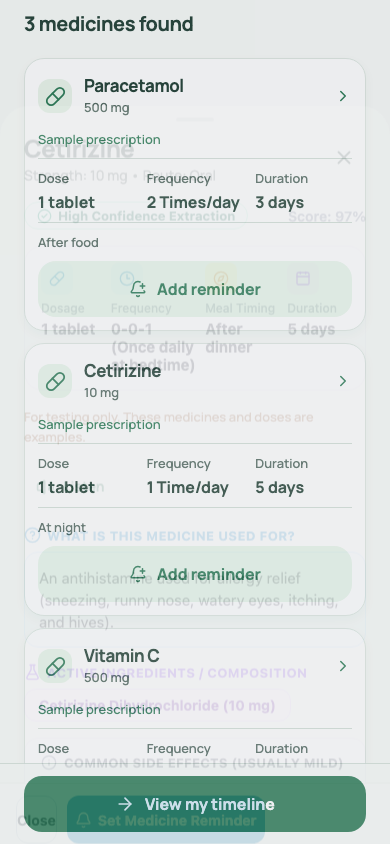
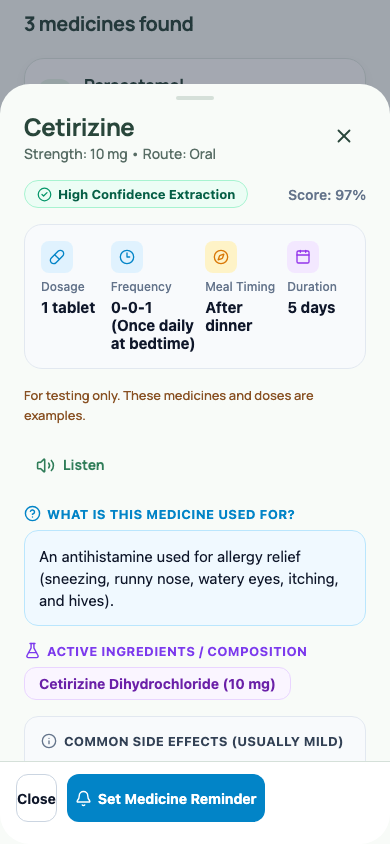
fix: readme app screnshot and added start.sh

diff --git a/mobile/tests/browser/capture_screenshots.spec.ts b/mobile/tests/browser/capture_screenshots.spec.ts
@@ -86,11 +86,13 @@ test("generate README screenshots", async ({ page }) => {
     .getByRole("button", { name: "Medicine details: Cetirizine", exact: true })
     .click();
   await expect(page.getByText("High Confidence Extraction")).toBeVisible();
+  await page.waitForTimeout(500); // Allow drawer slide-in animation to completely settle
   await page.screenshot({ path: path.join(screenshotsDir, "03-clinical-details.png") });
 
   // 4. Add/Edit Reminder Sheet
   await page.getByRole("button", { name: "Set Medicine Reminder", exact: true }).click();
   await expect(page.getByRole("heading", { name: "Add reminder" })).toBeVisible();
+  await page.waitForTimeout(600); // Allow sheet slide-in transition to completely finish without motion blur
   await page.screenshot({ path: path.join(screenshotsDir, "04-reminder-schedule.png") });
 
   // 5. Save Reminder & Today Timeline

diff --git a/README.md b/README.md
@@ -50,26 +50,18 @@ Handwritten prescriptions remain a dangerous, multi-billion-dollar bottleneck in
 
 ---
 
-## ⚡ Core Features
+## ✨ Core Features
 
-* **🔬 Multi-Modal AI Prescription Parsing**: Powered by Google Gemini (`gemini-3-flash-preview` / `gemini-3.5-flash`) with constrained schema decoding to transcribe drug names, strengths, dosages, and instructions without hallucination.
-* **📑 Interactive Clinical Intelligence Drawer**:
-  * **Extraction Confidence**: Visual confidence score badge (e.g. `High Confidence Extraction · 97%`).
-  * **4-Grid Metrics**: Quick view of **Dosage**, **Frequency** (`3 Times/day`), **Meal Timing** (`After meals`), and **Duration** (`7 days (generally)`).
-  * **What Is This Used For?**: Plain-language clinical indications written for patients.
-  * **Active Ingredients & Composition**: Pharmacological salt breakdown with exact strengths.
-  * **Mild vs. Emergency Effects**: Differentiates mild reactions (drowsiness, dry mouth) from critical red flags.
-  * **Generic Substitutes**: Matches active salts to affordable bioequivalent generics (e.g., PMBJP Jan Aushadhi).
-* **⏰ Medication Scheduling & Safety**:
-  * **Frequency-Locked Slots**: Prevents arbitrary dose multiplication (e.g., 3 Times/day provides exactly 3 slots).
-  * **Anchored Safety Windows**: Constrains reminder adjustments within 2 hours of physician instructions.
-  * **Timeline Actions**: Interactive **Mark Taken**, **Snooze (10m)**, and **Undo** buttons.
-* **🏥 GPS Hospital & Emergency Finder**:
-  * Automatically detects current city/coordinates and queries Google Places.
-  * Filters by **Government / Public Hospital**, **Clinic**, or **24/7 Emergency Care** with one-tap Google Maps directions and direct calls.
-* **🔒 Offline First & Private**:
-  * Works 100% offline using local SQLite / device storage for ongoing daily schedules.
-  * Optional encrypted Supabase cloud synchronization across mobile devices.
+| Feature | What It Does |
+|:---|:---|
+| 🔬 **AI Prescription OCR** | Transcribes handwritten cursive into structured medicine names, strengths, and dosages using Google Gemini Vision. |
+| 💊 **Standardized Frequencies** | Converts shorthand (`TDS`, `BD`, `1-0-1`, `HS`) into clean **`3 Times/day`**, **`2 Times/day`**, or **`At bedtime`**. |
+| 📑 **Clinical Intelligence** | Bottom-sheet drawer explaining **Uses**, **Active Composition**, **Mild vs. Emergency Effects**, and **Precautions**. |
+| 🏷 **Generic Alternatives** | Recommends bioequivalent low-cost generics (e.g. PMBJP Jan Aushadhi) matched by active chemical salts. |
+| ⏰ **Locked Safety Reminders** | Daily reminder slots locked to prescription frequency with anchored 2-hour safety adjustment limits. |
+| 📅 **Adherence Timeline** | Daily timeline to track scheduled doses with one-tap **Mark Taken**, **Snooze (10m)**, and **Undo**. |
+| 🏥 **Nearby Emergency Care** | Live GPS finder for verified **Government / Public hospitals**, 24/7 emergency rooms, and pharmacies. |
+| 🔒 **100% Offline First** | Full local storage persistence — reminders and daily schedules work seamlessly without internet. |
 
 ---
 
@@ -122,6 +114,8 @@ sequenceDiagram
 
 ```
 mediscan/
+├── start.sh                       # 🚀 One-command system startup script (starts backend + frontend)
+├── package.json                   # Root scripts & automation configuration
 ├── mobile/                        # React Native / Expo Frontend Application
 │   ├── src/
 │   │   ├── app/                   # Expo Router file-based screens
@@ -150,7 +144,7 @@ mediscan/
 │   └── test_backend.py            # Pytest backend API verification suite
 │
 ├── docs/                          # Project Documentation & Assets
-│   ├── screenshots/               # App preview screenshots (01 to 06)
+│   ├── screenshots/               # Crystal-clear app preview screenshots (01 to 06)
 │   ├── AI_ARCHITECTURE.md         # Multi-modal AI vision model architecture
 │   └── SECURITY_AND_SAFETY.md     # Patient privacy & clinical non-fabrication policies
 │
@@ -164,73 +158,75 @@ mediscan/
 ### 📋 Prerequisites
 * **Node.js**: `v20+` (`node -v`)
 * **Python**: `3.10+` (`python3 --version`)
-* **Gemini API Key**: Free key from [Google AI Studio](https://aistudio.google.com/)
+* **Gemini API Key**: Free API key from [Google AI Studio](https://aistudio.google.com/)
 
 ---
 
-### Step 1: Launch the Backend (FastAPI)
+### ⚡ Option A: One-Command Start (Recommended)
+
+Run the included automated startup script from the root folder:
 
 ```bash
-# 1. Open a terminal and enter backend/
+./start.sh
+# or:
+npm start
+```
+
+This single command automatically:
+1. Verifies Python virtualenv, Node dependencies, and `GEMINI_API_KEY`.
+2. Detects your computer's local Wi-Fi LAN IP (for phone connectivity).
+3. Checks network ports (`8102` and `8100`) and frees stale connections.
+4. Boots the **FastAPI Backend** and waits for its health check (`http://127.0.0.1:8102/health`).
+5. Launches the **Expo Metro Bundler** with an interactive console and terminal QR code.
+6. Handles single-command clean exit (`Ctrl + C`) for both services.
+
+---
+
+### 🛠 Option B: Manual Terminal Launch
+
+<details>
+<summary><b>Click to expand manual 2-terminal startup steps</b></summary>
+
+#### Step 1: Start Backend (Terminal 1)
+```bash
 cd backend
-
-# 2. Create virtual environment & activate
 python3 -m venv .venv
-source .venv/bin/activate       # On Windows: .venv\Scripts\activate
-
-# 3. Install dependencies
+source .venv/bin/activate       # Windows: .venv\Scripts\activate
 pip install -r requirements.txt
-
-# 4. Set your Gemini API key in .env
-cp .env.example .env
-# Edit .env and set: GEMINI_API_KEY=your_gemini_key_here
-
-# 5. Start the backend
+cp .env.example .env            # Add your GEMINI_API_KEY
 python run.py
 ```
-> Backend runs at: **`http://127.0.0.1:8102`** (Verify: `curl http://127.0.0.1:8102/health`)
+> Running at: `http://127.0.0.1:8102` (Health: `curl http://127.0.0.1:8102/health`)
 
----
-
-### Step 2: Launch the Mobile App (Expo / React Native)
-
+#### Step 2: Start Mobile App (Terminal 2)
 ```bash
-# 1. Open a second terminal and enter mobile/
 cd mobile
-
-# 2. Install dependencies
 npm install
-
-# 3. Configure backend URL
 echo "EXPO_PUBLIC_API_URL=http://localhost:8102" > .env
-
-# 4. Start Expo development server
 npm run start
 ```
+Press **`w`** in the terminal to open immediately in your web browser!
 
-Press **`w`** in the terminal to open the app instantly in your web browser!
+</details>
 
 ---
 
-### 📲 Step 3: Run on Your Physical Mobile Phone
+### 📲 Running on Your Physical Mobile Phone
 
-#### Option A: Expo Go (Instant · 30 Seconds · Zero Build Required)
+#### Method 1: Expo Go (Instant · 30 Seconds · Zero Build Required)
 1. Install **Expo Go** from [Google Play Store](https://play.google.com/store/apps/details?id=host.exp.exponent) or [iOS App Store](https://apps.apple.com/app/expo-go/id982107779).
-2. Connect your smartphone to the **same Wi-Fi network** as your laptop.
-3. Update `mobile/.env` with your laptop's local LAN IP:
-   ```env
-   EXPO_PUBLIC_API_URL=http://192.168.1.15:8102
-   ```
-4. Start Expo (`npm run start`) and scan the terminal QR code using **Expo Go** (Android) or the native **Camera** app (iOS).
+2. Connect your smartphone to the **same Wi-Fi network** as your computer.
+3. Start the project using `./start.sh` (which auto-detects your LAN IP, e.g. `172.17.17.189`).
+4. Scan the terminal QR code using **Expo Go** (Android) or the native **Camera** app (iOS).
 
-#### Option B: Standalone Android APK (`.apk`)
+#### Method 2: Standalone Android APK (`.apk`)
 ```bash
 cd mobile
 npm install -g eas-cli
 eas login
 npm run build:apk
 ```
-EAS builds a standalone native APK in the cloud and provides a direct download link to install on any Android phone.
+EAS compiles a standalone native APK in the cloud and outputs a direct download link for any Android phone.
 
 ---
 
@@ -238,10 +234,10 @@ EAS builds a standalone native APK in the cloud and provides a direct download l
 
 ```bash
 # 1. Run domain unit tests (Dose math, time window safety, status state machine)
-cd mobile && node tests/domain.test.cjs
+npm test
 
 # 2. Run automated browser E2E tests (10 full-flow Playwright scenarios)
-cd mobile && npx playwright test tests/browser/prescription.spec.ts
+npm run test:e2e
 
 # 3. TypeScript validation
 cd mobile && npx tsc --noEmit
